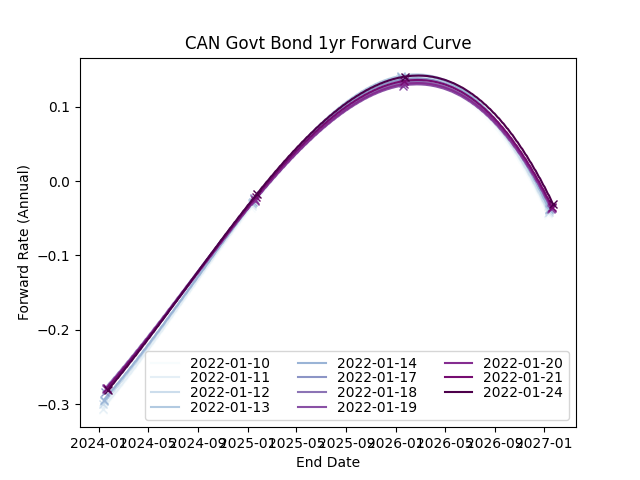
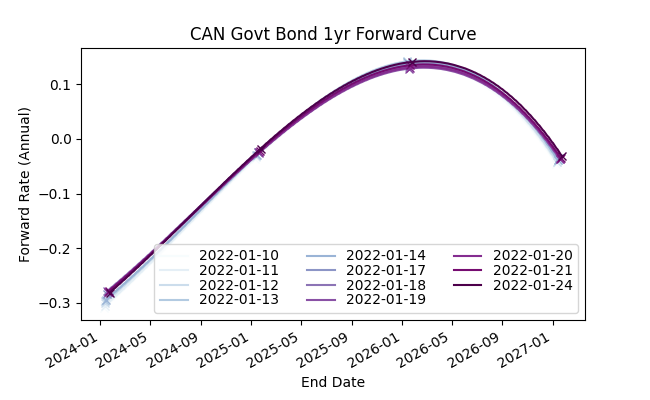
Rotate x-axis labels on images.

diff --git a/RatesResults.py b/RatesResults.py
@@ -22,6 +22,7 @@ class RatesResults:
     def plot(self, title, xlabel, ylabel, out_filename):
         cmap = plt.cm.get_cmap("BuPu")
         colors = cmap(np.linspace(0, 1, len(self.rates_curve_by_date)))
+        plt.rcParams["figure.figsize"] = (6.5, 4)
 
         for date, color in zip(self.rates_curve_by_date, colors):
             sorted_x, sorted_y = self.rates_curve_by_date[date][0], self.rates_curve_by_date[date][1]
@@ -38,7 +39,9 @@ class RatesResults:
 
             plt.plot(sorted_x_interpolated, sorted_y_interpolated, c=color)
             plt.plot(sorted_x, sorted_y, c=color, marker='x', linestyle='None', label='_nolegend_')
-        
+
+        fig = plt.gcf()
+        fig.autofmt_xdate()
         plt.legend(self.rates_curve_by_date, ncol=3, labelspacing=0.05)
         plt.title(title)
         plt.xlabel(xlabel)
